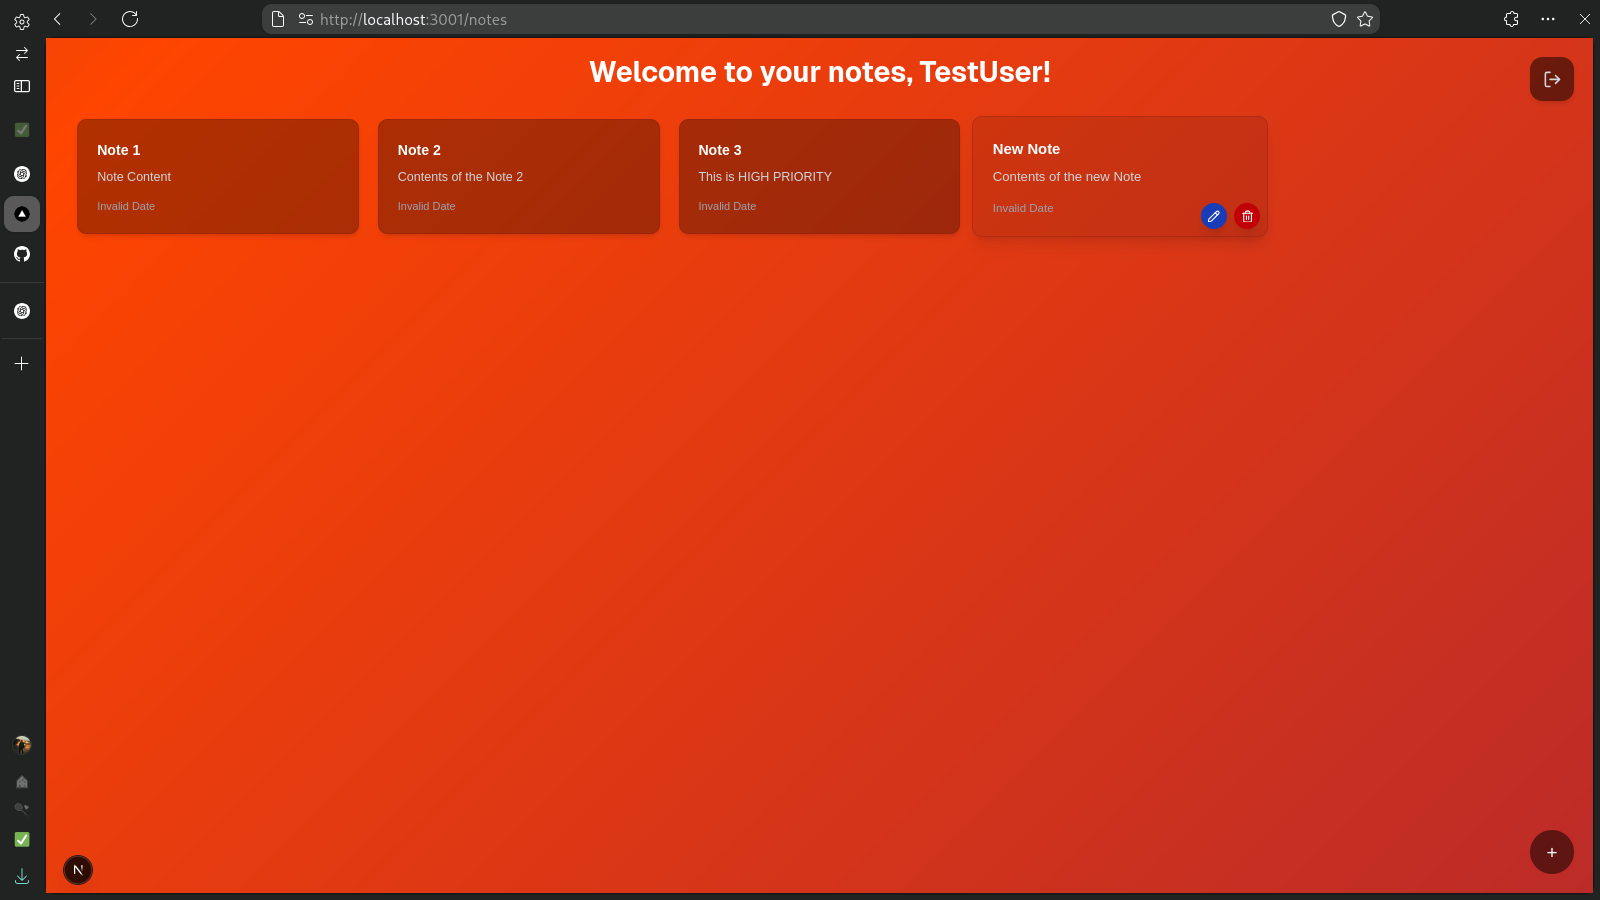
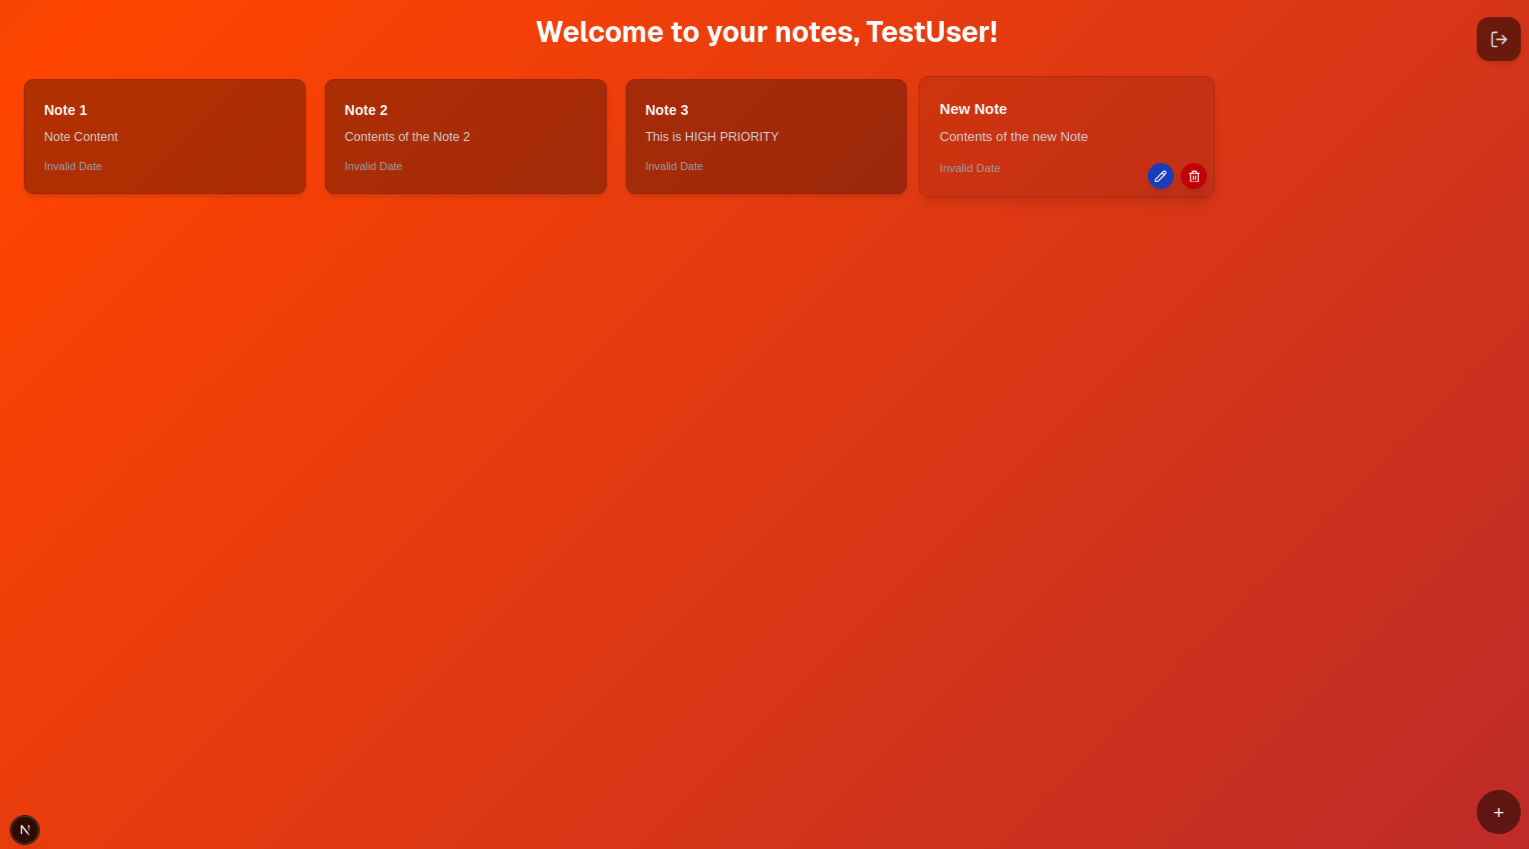
Readme updated

Changed region(s): [[0.0, 0.0, 1.0, 1.0]]

diff --git a/README.md b/README.md
@@ -2,3 +2,6 @@
 
 Front end that will serve my other project [notes-api](https://github.com/WhoisCipher/notes-api)
 
+![Notes-Frontend](public/notes.png)
+
+
